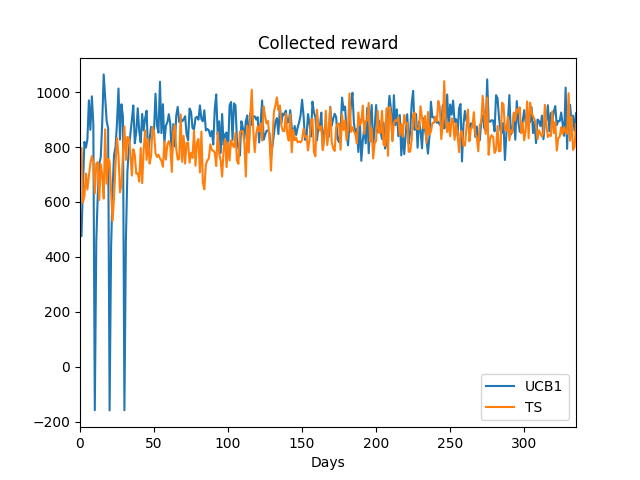
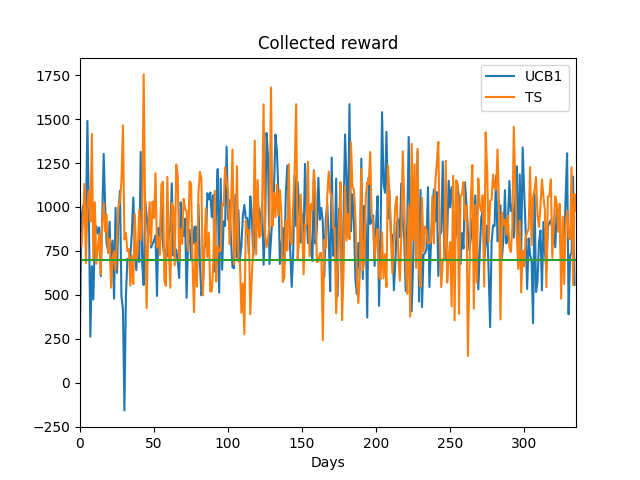
added somethin i cant remember

diff --git a/P3.py b/P3.py
@@ -14,7 +14,7 @@ env = Environment()
 prices = numpy.linspace(1, 10, num=10)
 bids = [0.7]
 T = 365
-N = 20
+N = 1
 
 
 def iterate_days(results_queue, idx=0):
@@ -146,11 +146,16 @@ if __name__ == '__main__':
     plots_folder = os.path.join(cwd, "plots")
     print("Plots folder: " + plots_folder)
 
+    value_line_to_plot=700
+    plot_line=True
+
     pyplot.figure()
     pyplot.plot(mean_collected_rewards_ucb1)
     pyplot.plot(mean_collected_rewards_ts)
     pyplot.xlim([0, T - 30])
     pyplot.legend(['UCB1', 'TS'])
+    if plot_line:
+        pyplot.plot([value_line_to_plot for i in range(T)])
     pyplot.title('Collected reward')
     pyplot.xlabel('Days')
     pyplot.savefig(os.path.join(plots_folder, 'Collected rewards.png'))
@@ -179,6 +184,8 @@ if __name__ == '__main__':
     pyplot.plot([i * 100 for i in mean_vector_daily_price_ucb1])
     pyplot.xlim([0, T - 30])
     pyplot.legend(['collected reward', 'price * 100'])
+    if plot_line:
+        pyplot.plot([value_line_to_plot for i in range(T)])
     pyplot.title('UCB1 confronto prezzo revenue')
     pyplot.xlabel('Days')
     pyplot.savefig(os.path.join(plots_folder, 'UCB1 confronto prezzo-revenue.png'))
@@ -188,6 +195,8 @@ if __name__ == '__main__':
     pyplot.plot([i * 100 for i in mean_vector_daily_price_ts])
     pyplot.xlim([0, T - 30])
     pyplot.legend(['collected reward', 'price * 100'])
+    if plot_line:
+        pyplot.plot([value_line_to_plot for i in range(T)])
     pyplot.title('TS confronto prezzo revenue')
     pyplot.xlabel('Days')
     pyplot.savefig(os.path.join(plots_folder, 'TS confronto prezzo revenue.png'))

diff --git a/ucb1.py b/ucb1.py
@@ -17,7 +17,7 @@ class UCB1Learner(Learner):
         :return: the arm to be pulled at the next round
         """
 
-        if self.t < 40:
+        if self.t < 10:
             arm = self.t % self.n_arms
 
         else:
@@ -42,7 +42,7 @@ class UCB1Learner(Learner):
             self.delayedreward.pop(0)
             self.delayedreward.append(sum(delayedr)+reward)
 
-        self.t += 1
+        print(self.delayedreward)
 
         if self.t==1:
             # just remove the empty list at the beginning
@@ -51,6 +51,10 @@ class UCB1Learner(Learner):
             self.collected_rewards=np.append(self.collected_rewards,self.delayedreward[0])
             self.rewards_per_arm[self.last30dayschoice[0]] += self.collected_rewards[-1]
             self.n_pulled_arms[self.last30dayschoice[0]] += 1
+
+        print(self.collected_rewards)
+
+        self.t += 1
 
         for a in range(self.n_arms):
             if self.n_pulled_arms[a] > 0:

diff --git a/P1.py b/P1.py
@@ -23,7 +23,7 @@ def get_bid_and_price_revenue(bid, price, customer_class):
     mean_comebacks = env.get_mean_n_times_comeback(customer_class)
 
     purchases = new_users_daily * buy_percentage
-    revenue = purchases * (1 + mean_comebacks) * env.get_margin(price) - new_users_daily * cost_per_click
+    revenue = purchases * (1+mean_comebacks) * env.get_margin(price) - new_users_daily * cost_per_click
     return revenue
 
 

diff --git a/prova.py b/prova.py
@@ -1,0 +1,5 @@
+from environment import Environment
+
+env = Environment()
+
+print(env.get_comeback_days(3))
